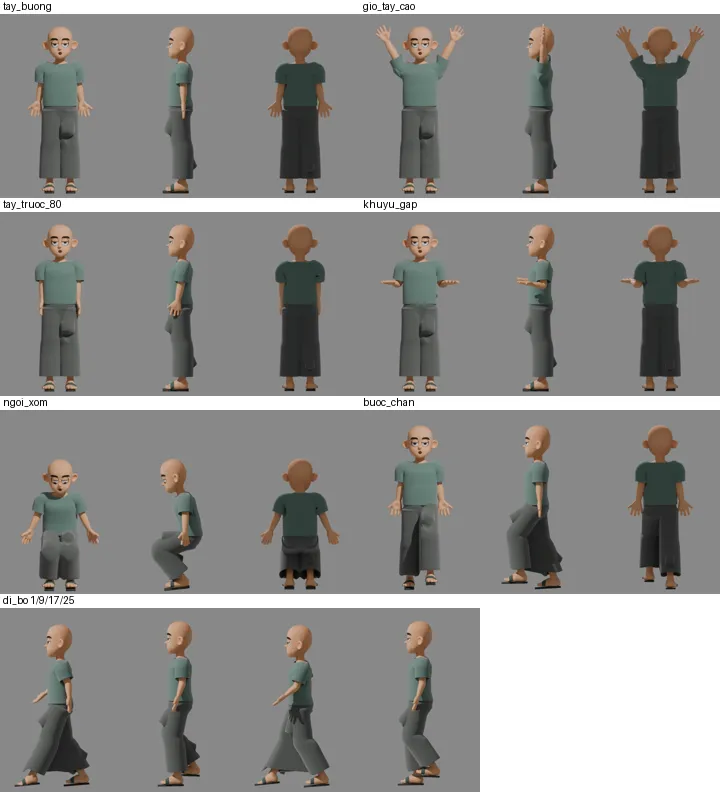
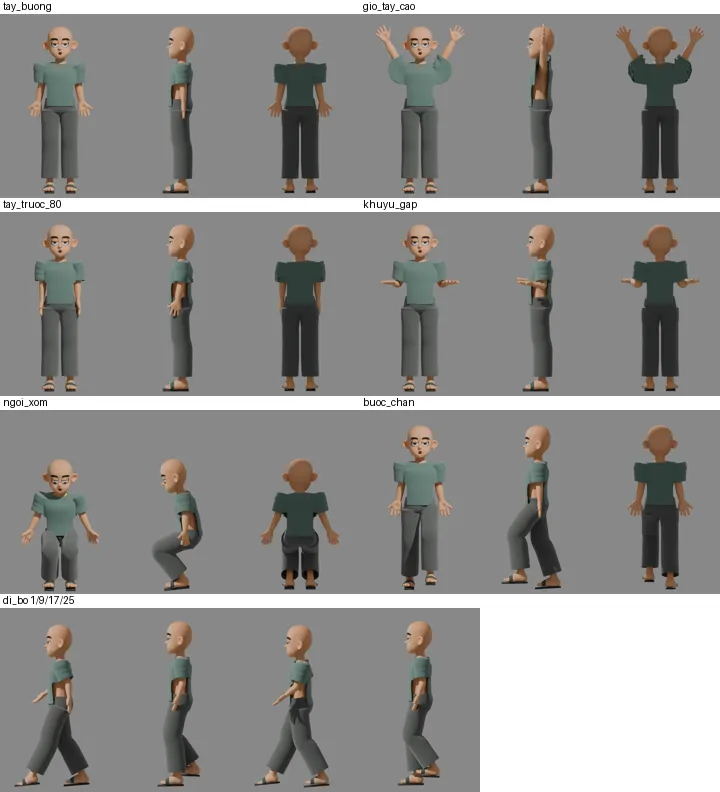
docs(nam-002/quan-ao): kết quả kiểm 10 bộ (bản giữa chừng) + ảnh duyệt
Claude-Session: https://claude.ai/code/session_01SK73tBnSQF4kxa4AZiXrY1

diff --git a/assets/nhan-vat-3d/nam-002/quan-ao/KET-QUA-QUAN-AO.md b/assets/nhan-vat-3d/nam-002/quan-ao/KET-QUA-QUAN-AO.md
@@ -1,0 +1,35 @@
+# Quần áo trên NAM-002 — kết quả kiểm (bản giữa chừng, 15/11/2026)
+
+Chưa đạt. Đây là số đo sau vòng sửa thứ nhất để chủ repo nắm tình trạng; chưa phải bàn giao cuối.
+
+- Dựng: `may_quan_ao.py` (lát cắt NAM-002, dựng quanh da ở dáng tay xiên 75°, tính ngược về chữ T). Gắn rig: `gan_rig.py`. Đo: `kiem_tra.py --bo all --nhanh` (11 dáng + khung đi bộ 1/9/17/25). Ảnh: `anh/<bộ>.webp`.
+- Mỗi ô: số đỉnh da xuyên vải / cặp mặt vướng / cạnh vải giãn>1,6× hoặc co<0,5× / mặt lật. `ĐẠT` = cả 4 bằng 0 và không lộ da.
+
+| Bộ | tay_buong | khuyu_gap | xoay_than | khung_1 | khung_9 | khung_17 | khung_25 | buoc_chan | tay_truoc_80 | gio_tay_cao | ngoi_xom | nghi_T |
+|---|---|---|---|---|---|---|---|---|---|---|---|---|
+| xanh | 61/0/0/9 | 0/0/49/0 | 0/0/256/55 | 0/208/162/64 | 0/178/412/101 | 0/164/162/65 | 0/135/413/104 | 33/234/398/40 | 28/131/748/211 | 0/5/1771/875 | 126/1032/2446/1348 | 0/0/563/53 |
+| ngu | 61/0/0/9 | 0/0/49/0 | 0/0/256/55 | 0/209/160/64 | 0/128/38/7 | 0/161/160/65 | 0/81/39/7 | 33/232/105/20 | 28/131/748/211 | 0/5/1771/875 | 12/656/1796/265 | 0/0/563/53 |
+| xam-tui | 61/0/0/9 | 0/0/49/0 | 0/0/256/55 | 0/208/162/64 | 0/178/412/101 | 0/164/162/65 | 0/135/413/104 | 33/234/398/40 | 28/131/748/211 | 0/5/1771/875 | 126/1032/2446/1348 | 0/0/563/53 |
+| dong-phuc | 61/0/0/9 | 0/0/49/0 | 0/1/256/55 | 0/213/162/64 | 0/179/412/101 | 0/170/162/65 | 0/135/413/104 | 33/235/398/40 | 28/131/748/211 | 0/5/1771/875 | 126/1032/2446/1348 | 0/0/563/53 |
+| the-thao | 61/0/0/9 | 0/0/54/0 | 0/16/272/64 | 0/214/174/72 | 0/135/44/7 | 0/161/173/65 | 0/88/45/7 | 33/232/105/20 | 29/147/784/225 | 0/7/1816/926 | 12/687/1821/274 | 0/4/603/53 |
+| hoodie | 61/194/70/125 | 3/394/1269/1152 | 0/48/1045/273 | 0/299/681/214 | 0/308/572/197 | 0/237/661/228 | 0/260/575/200 | 33/429/406/149 | 28/624/2039/751 | 0/35/3284/1947 | 127/1103/3274/1661 | 0/24/1950/116 |
+| khoac-gio | 61/231/129/175 | 4/680/1673/1234 | 0/212/1335/361 | 0/563/998/296 | 0/560/817/281 | 0/531/972/325 | 0/517/818/284 | 33/596/527/206 | 40/1145/2864/935 | 0/112/5118/2833 | 126/1489/3906/1761 | 0/68/2608/197 |
+| so-mi-khoac | 61/0/4/9 | 0/0/94/0 | 0/74/501/116 | 0/357/321/112 | 0/325/436/98 | 0/325/318/125 | 0/282/437/101 | 33/365/402/40 | 30/612/1599/420 | 0/4/3718/1677 | 126/1334/2873/1439 | 0/0/1271/110 |
+| sweatshirt | 61/194/70/125 | 3/394/1269/1152 | 0/48/1045/273 | 0/298/682/214 | 0/311/670/224 | 0/243/661/228 | 0/268/671/227 | 33/428/468/156 | 28/624/2039/751 | 0/35/3284/1947 | 126/1095/3454/1646 | 0/24/1950/116 |
+| tung-bong-da | 61/0/0/9 | 0/0/54/0 | 0/16/272/64 | 0/214/192/72 | 0/135/92/23 | 0/161/194/65 | 0/88/91/21 | 33/232/105/20 | 29/147/784/225 | 0/7/1816/926 | 13/1003/1883/288 | 0/4/603/53 |
+
+## Đọc kết quả
+
+- **Dáng thường (buông tay, gập khuỷu, đi bộ) gần đạt ở bộ một lớp** (`xanh`, `ngu`, `the-thao`, `tung-bong-da`, `xam-tui`, `dong-phuc`): áo gần sạch; còn lại chủ yếu ở quần khi bước (mặt trong đùi ống rộng chạm nhau, nếp gập sau đùi) và bàn tay buông áp vào hông quần (~9 mm).
+- **Giơ tay cao, đưa tay trước 80°, chữ T, ngồi xổm lỗi nặng**: vải dựng ở dáng tay xiên 75° nên nách/vai áo bị kéo hoặc gập khi tay đi xa dáng đó; ngồi xổm quần gập ở háng. Cần shape key sửa lái theo góc tay/hông (như sửa nếp nách rig cũ).
+- **Bộ hai lớp (`khoac-gio`, `so-mi-khoac`) và tay dài (`hoodie`, `sweatshirt`) lỗi nhiều hơn**: áo trong và áo ngoài vướng nhau; `khoac-gio` có cạnh suy biến (giãn hàng triệu lần) ở vạt mở — lỗi dựng hình cần sửa trước.
+- Lộ da đã loại da tay (nách lộ khi giơ tay là thiết kế áo cộc). Dáng chữ T không dùng khi diễn, chỉ để tham khảo.
+
+## Bước tiếp
+
+1. Sửa cạnh suy biến vạt áo khoác mở; giãn khoảng áo trong–áo ngoài.
+2. Quần: thu mặt trong ống ở đùi, pha weights đùi sau mông; đo lại khi bước.
+3. Shape key sửa áo cho giơ tay cao / đưa tay trước và quần cho ngồi xổm, lái theo góc xương.
+4. Chạy đủ 32 khung đi bộ cho bộ đạt.
+
+Mô hình NAM-002: giấy phép nguồn chưa xác minh (README NAM-002).
